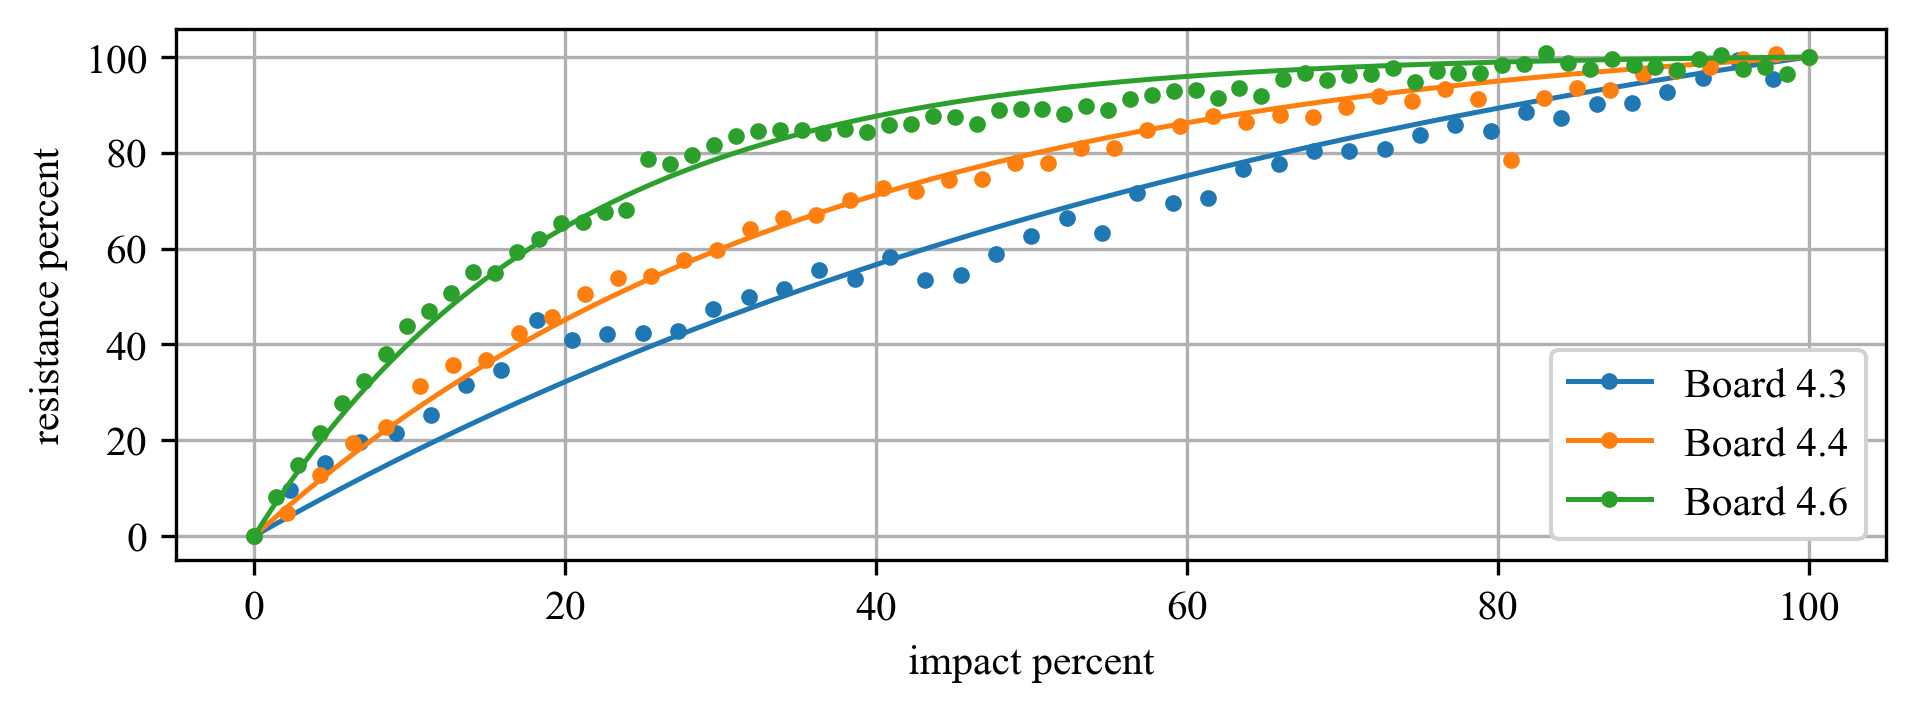
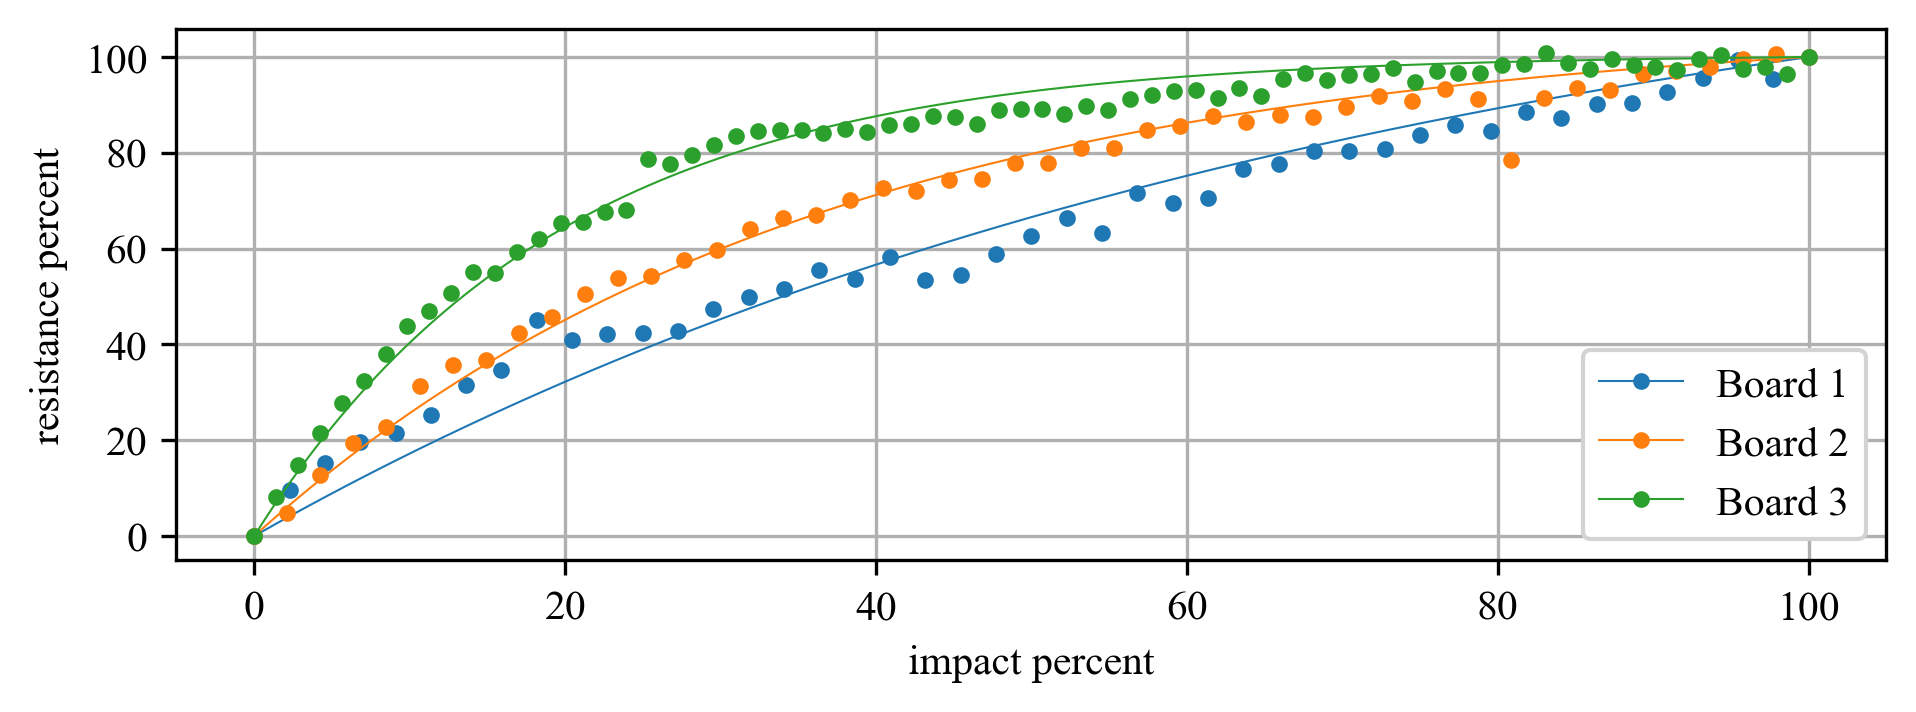
Plotting Updated

diff --git a/Analysis/IMAC_plotting.py b/Analysis/IMAC_plotting.py
@@ -144,12 +144,13 @@ legend_handles, legend_labels = [], []
 for i in range(len(board_names)):
     color = next(colors)
     plt.plot(impact_numbers_percents[i], resistance_numbers_percents[i],
-             marker='.', linestyle='', linewidth=1, color=color)
+             marker='.', linestyle='', linewidth=0.5, color=color)
     plt.plot(fit_line_x_values[i], fit_line_y_values[i],
-             linewidth=1.2, color=color)
-    handle = Line2D([0], [0], marker='.', color=color, linestyle='-', markersize=6, linewidth=1.2)
+             linewidth=0.5, color=color)
+    handle = Line2D([0], [0], marker='.', color=color, linestyle='-', markersize=6, linewidth=0.5)
     legend_handles.append(handle)
-    legend_labels.append(board_names[i])
+    save_name = board_save_map.get(data_list[i], board_names[i])
+    legend_labels.append(save_name)
 
 plt.xlabel("impact percent")
 plt.ylabel("resistance percent")
